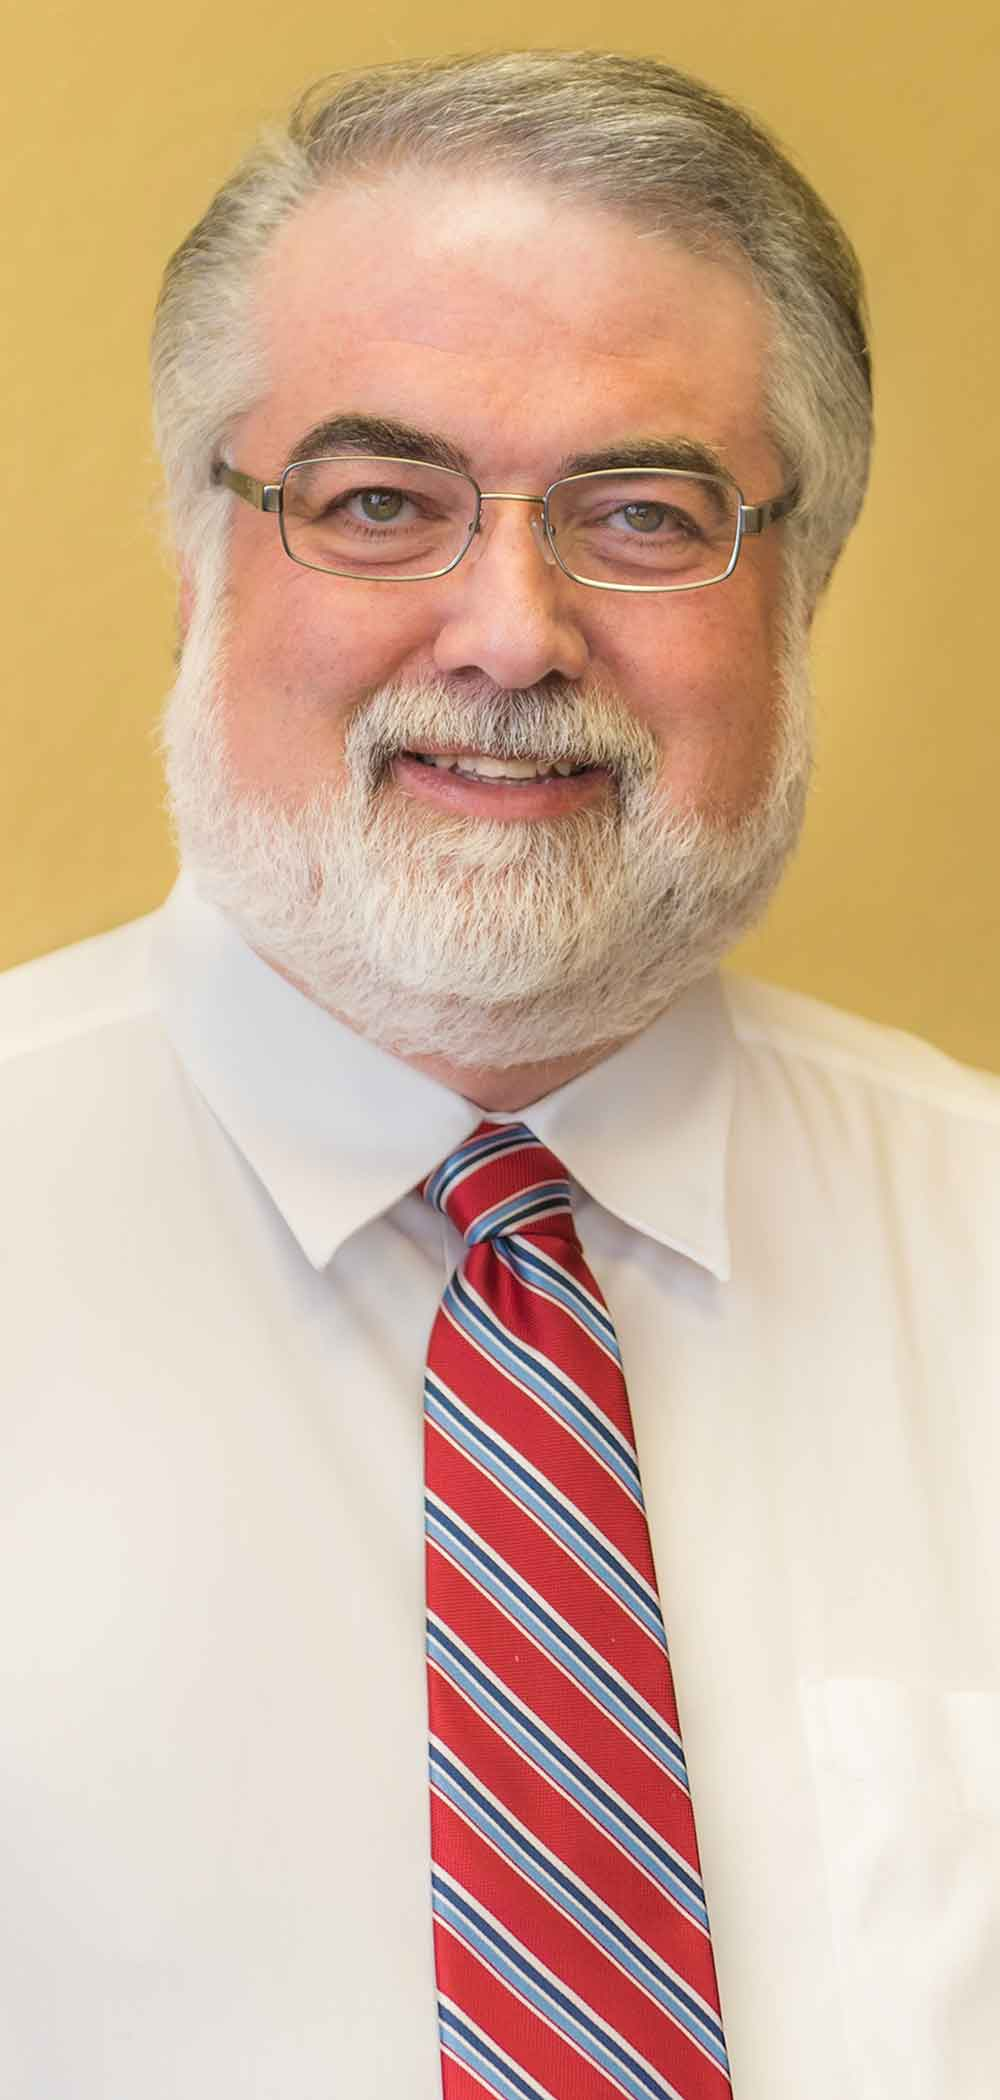
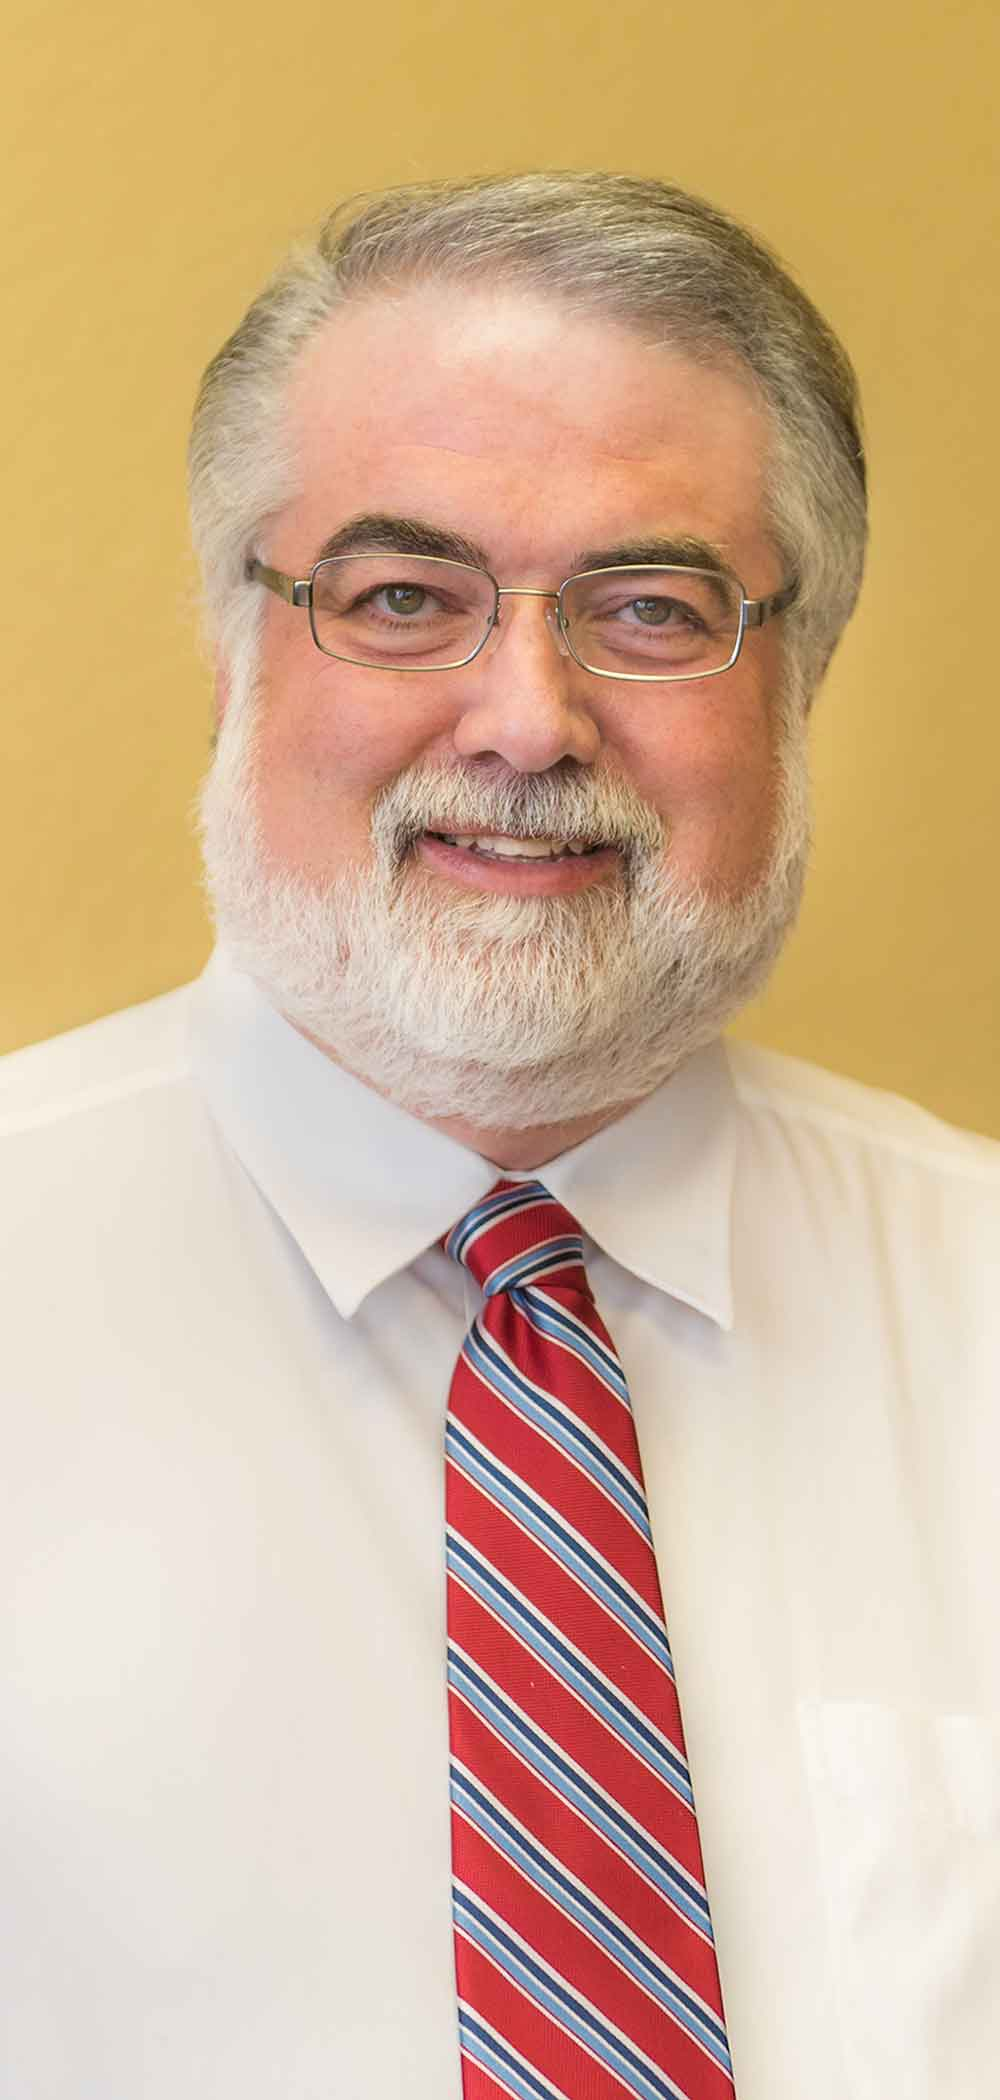
Formatted #doctor for extra small screen sizes

diff --git a/css/custom.css b/css/custom.css
@@ -389,7 +389,7 @@ textarea {
 	}
 }
 
-/* iPads */
+/* iPads 
 @media only screen and (min-device-width : 768px) and (max-device-width : 1024px)  {
 
 	#hero {
@@ -403,6 +403,7 @@ textarea {
 	}
 
 }
+*/
 
 @media screen and ( max-width : 991px ) {
 
@@ -469,7 +470,7 @@ textarea {
 	}
 
 	#doctor {
-		background: url('../img/drmercer-bg-sm.jpg') center 0 no-repeat;
+		background: url('../img/drmercer-bg-sm.jpg') center -140px no-repeat;
 		padding-top: 1025px;
 	}
 
@@ -495,8 +496,9 @@ textarea {
 
 
 	#doctor {
-		background: url('../img/drmercer-bg.jpg') 40% 28% no-repeat;
-		min-height: 400px;
+		background: url('../img/drmercer-bg-xs.jpg') center top no-repeat;
+		background-size: cover;
+		padding-top: 1325px;
 	}
 
 	#sign-up .btn {
@@ -508,7 +510,7 @@ textarea {
 	}
 }
 
-/* iPhone 6 Plus */
+/* iPhone 6 Plus 
 @media only screen and (min-device-width : 414px) and (max-device-width : 736px) {
 	#hero {
 		background: url('../img/hero-bg.jpg') no-repeat 73% center;
@@ -519,9 +521,9 @@ textarea {
 		background: url('../img/doctor-bag.jpg') no-repeat center center;
 		background-size: cover;
 	}
-}
+}*/
 
-/* iPhone 6 */
+/* iPhone 6
 @media only screen and (min-device-width : 375px) and (max-device-width : 667px) {
 	#hero {
 		background: url('../img/hero-bg.jpg') no-repeat 73% center;
@@ -533,8 +535,9 @@ textarea {
 		background-size: cover;
 	}
 }
+*/
 
-/* iPhone 5/5S */
+/* iPhone 5/5S 
 @media only screen and (min-device-width : 320px) and (max-device-width : 568px) {
 	#hero {
 		background: url('../img/hero-bg.jpg') no-repeat 73% center;
@@ -546,8 +549,8 @@ textarea {
 		background-size: cover;
 	}
 }
-
-/* iPhone 2G - 4S */
+*/
+/* iPhone 2G - 4S 
 @media only screen and (min-device-width : 320px) and (max-device-width : 480px) {
 	#hero {
 		background: url('../img/hero-bg.jpg') no-repeat 73% center;
@@ -559,3 +562,4 @@ textarea {
 		background-size: cover;
 	}
 }
+*/

diff --git a/index.html b/index.html
@@ -198,7 +198,7 @@
 		<section id="doctor">
 			<div class="container">
 				<div class="row">
-					<div class="col-xs-10 col-xs-offset-2 col-sm-10 col-sm-offset-1 col-md-6 col-md-offset-6">
+					<div class="col-xs-12 col-sm-10 col-sm-offset-1 col-md-6 col-md-offset-6">
 						<div class="doctor-overlay">
 
 							<div class="row">
